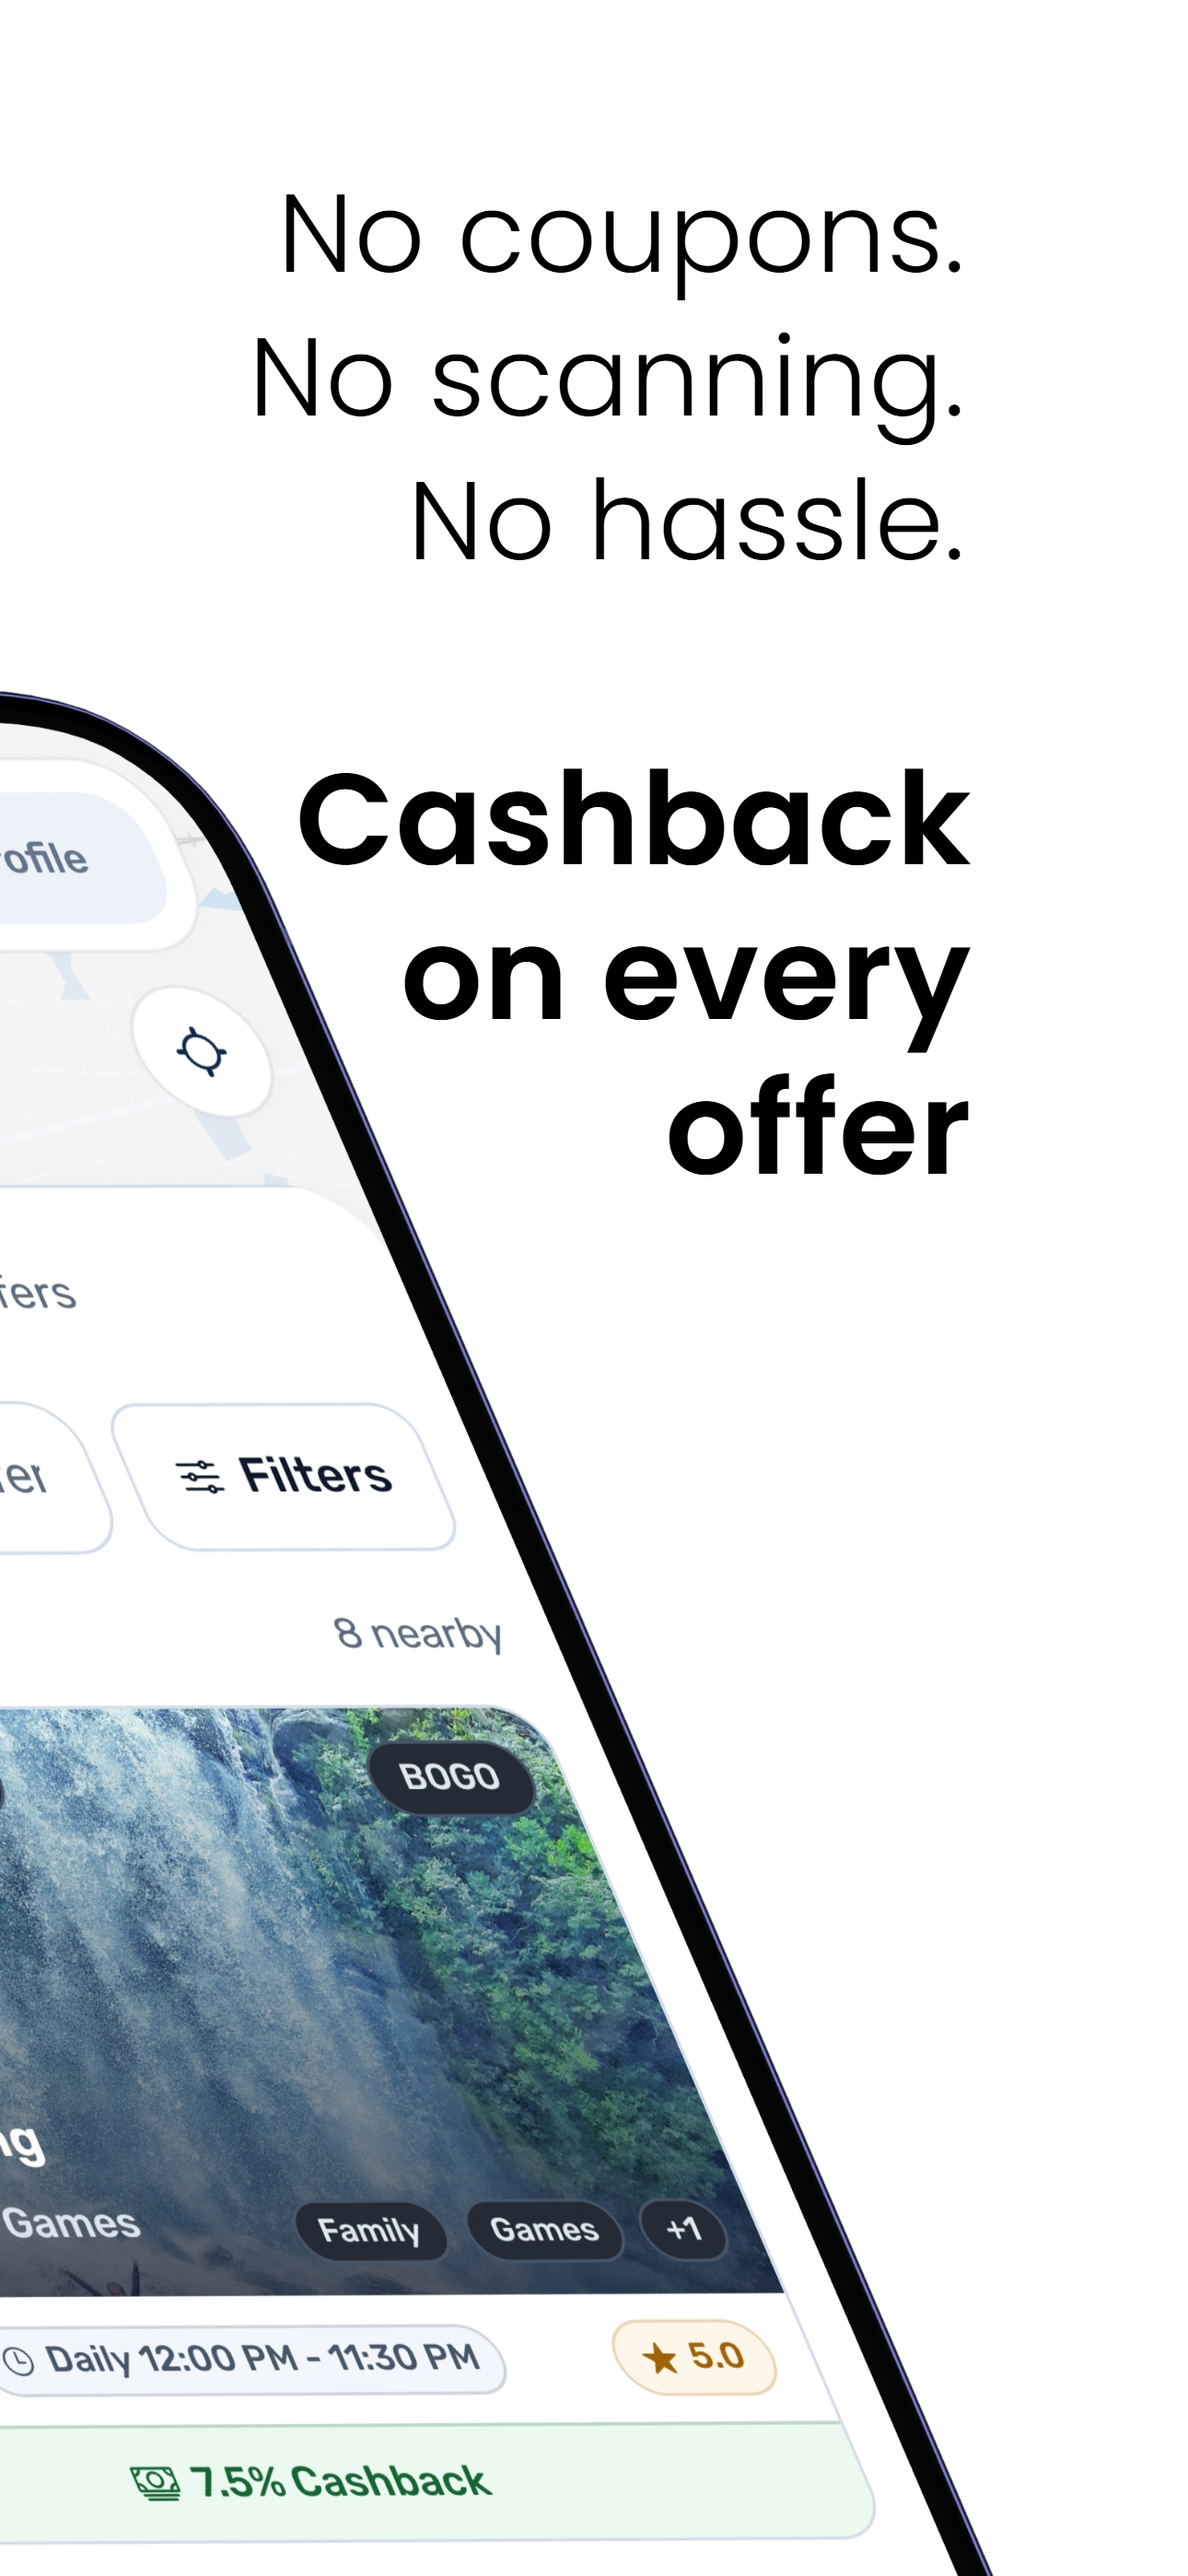
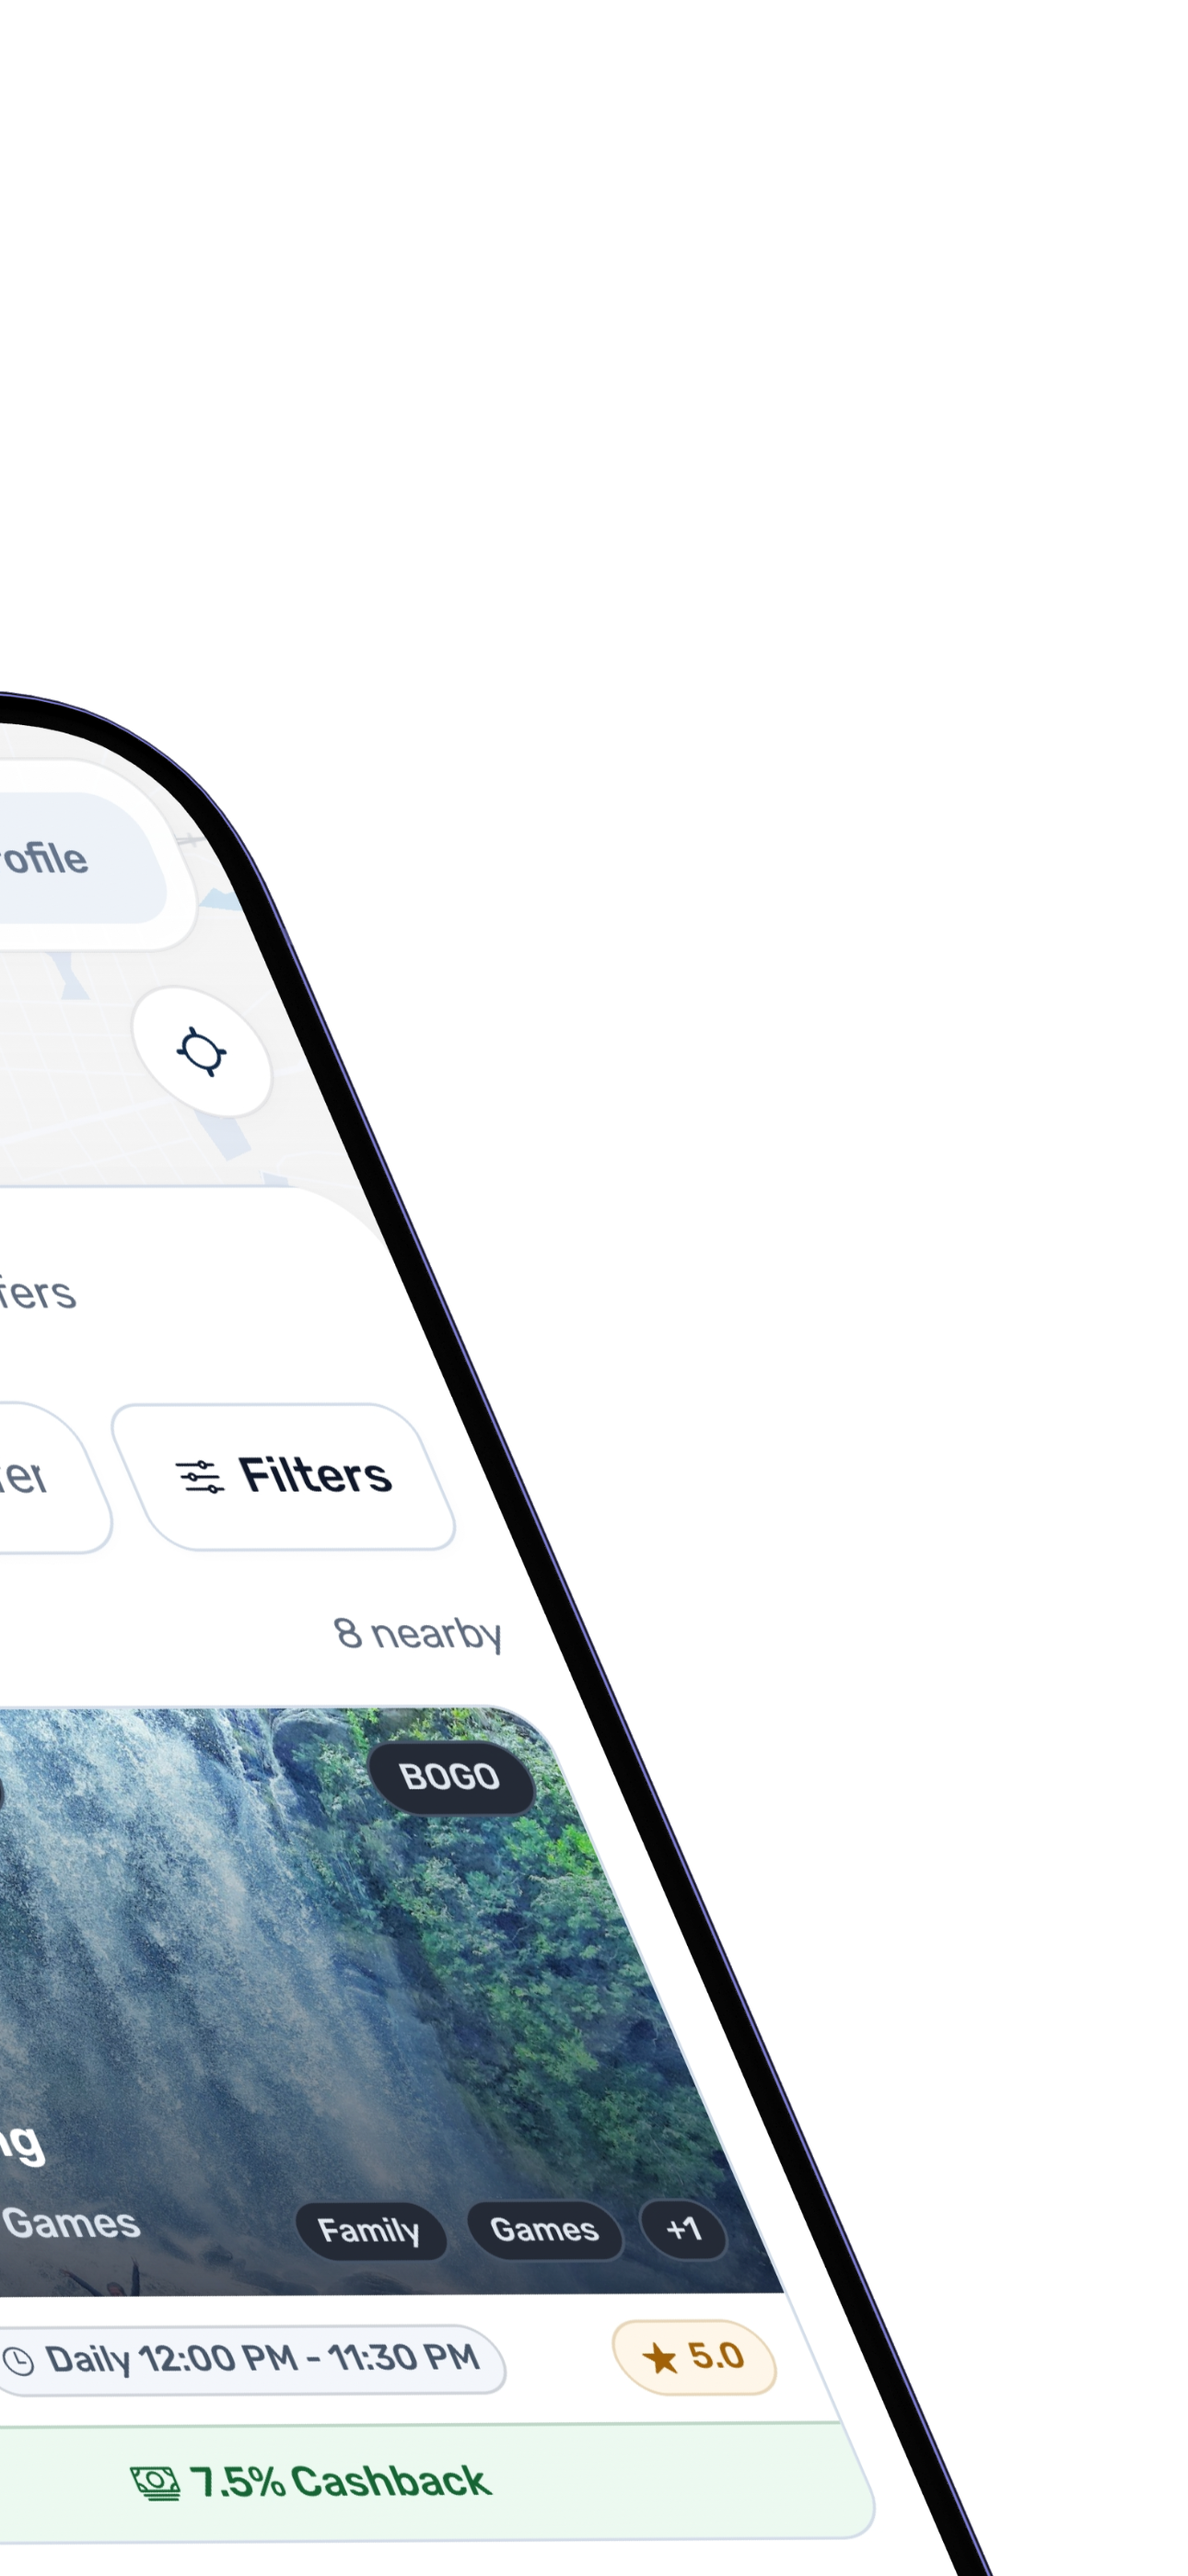
web

Changed region(s): [[0.2481, 0.28, 0.8062, 0.4667], [0.3411, 0.0622, 0.8062, 0.2178], [0.2171, 0.0622, 0.3411, 0.1556]]

diff --git a/site/styles.css b/site/styles.css
@@ -2933,7 +2933,7 @@ body.home-v2 .v2-hero-media {
 body.home-v2 .v2-hero-media-track {
   display: grid;
   grid-template-columns: repeat(2, minmax(0, 1fr));
-  gap: 10px;
+  gap: 0;
 }
 
 body.home-v2 .v2-section {
@@ -3464,7 +3464,7 @@ body.legal-v2 .legal-table th {
   }
 
   body.home-v2 .v2-hero-media-track {
-    gap: 8px;
+    gap: 0;
   }
 
   body.home-v2 .v2-nav-links a,
